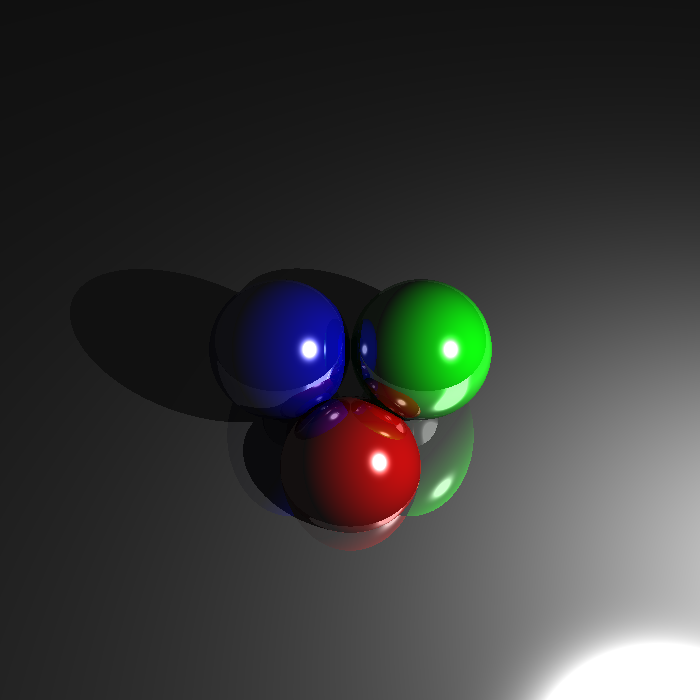
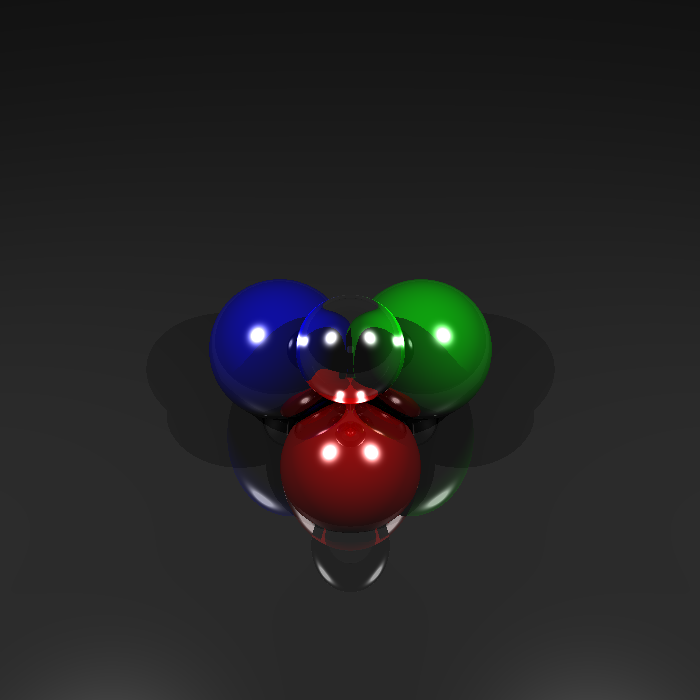
Refractions introduced! Yay!

diff --git a/src/Raytracer.cpp b/src/Raytracer.cpp
@@ -102,6 +102,8 @@ core::Color Raytracer::trace(core::Ray& ray, int reccursionStep)
     core::Point collision = ray.getOrgin() + ray.getDirection() * distance;
     core::Vector normal = closestObject->getNormalAt(collision);
 
+    core::Material closesObjectMaterial = closestObject->getMaterial();
+
     auto lights = scene_.getLights();
     for(auto& light : lights)
     {
@@ -152,14 +154,13 @@ core::Color Raytracer::trace(core::Ray& ray, int reccursionStep)
 
         if (isInShadow)
         {
-            local = local + clamp(closestObject->getMaterial().ambient * lightning_factor);
-            local = local * 255.0;
+            local = local + clamp(closesObjectMaterial.ambient * lightning_factor);
         }
         else
         {
-            core::Color ambient = closestObject->getMaterial().ambient * lightning_factor;
-            core::Color diffuse = closestObject->getMaterial().diffuse * light->getColor()  * dotNL * lightning_factor * 10.0;
-            core::Color specular = closestObject->getMaterial().specular * light->getColor() * pow(dotVR, 40) * 0.95;
+            core::Color ambient = closesObjectMaterial.ambient * lightning_factor;
+            core::Color diffuse = closesObjectMaterial.diffuse * light->getColor()  * dotNL * lightning_factor * 10.0;
+            core::Color specular = closesObjectMaterial.specular * light->getColor() * pow(dotVR, 40) * 0.95;
         
             local = local + clamp(ambient) + clamp(diffuse) + clamp(specular);
         }
@@ -167,7 +168,51 @@ core::Color Raytracer::trace(core::Ray& ray, int reccursionStep)
 
     core::Ray reflected(collision, ray.getDirection() - normal * (ray.getDirection().dotProduct(normal)) * 2.0);
     core::Color reflectedColor = trace(reflected, reccursionStep + 1);
-    local = local + clamp(reflectedColor * 0.5);
+    local = local + clamp(reflectedColor * 0.5);    // todo: reflection factor as paramter
+
+    if (closesObjectMaterial.opacity > 0.0)    //comparing doubles should use some kind of epsilon (std::numeric_limis<double> maybe?)
+    {
+        double n1;
+        double n2;
+        double cosI = ray.getDirection().dotProduct(normal);
+
+        if (cosI > 0)
+        {
+            n1 = closesObjectMaterial.refractionIndex;
+            n2 = 1.0f;
+        }
+        else
+        {
+            n1 = 1.0f;  
+            n2 = closesObjectMaterial.refractionIndex;
+            cosI = -cosI;
+        }
+
+        double cosT = 1.0f - pow(n1/n2, 2.0f) * (1.0f - pow(cosI, 2.0f));
+
+        if (cosT < 0.0f)
+        {
+            // This is total internal reflection (but i'm lazy so it still refracting)
+            // todo: fix me
+            core::Ray refraction(collision, 
+                ray.getDirection() * (n1/n2) + normal * ((n1/n2) * cosI - cosT));
+
+            core::Color refractionColor = trace(refraction, reccursionStep + 1);
+            local = local + clamp(refractionColor * closesObjectMaterial.opacity);
+
+        }
+        else
+        {
+            core::Ray refraction(collision, 
+                ray.getDirection() * (n1/n2) + normal * ((n1/n2) * cosI - cosT));
+
+            core::Color refractionColor = trace(refraction, reccursionStep + 1);
+            local = local + clamp(refractionColor * closesObjectMaterial.opacity);
+
+        }
+        
+    }
+
 
     return local;
 }

diff --git a/src/scene/Loader.cpp b/src/scene/Loader.cpp
@@ -75,9 +75,9 @@ Json::Value Loader::getOrDie(Json::Value node, std::string name)
 core::Point Loader::loadPosition(Json::Value& objectNode)
 {
     Json::Value position = getOrDie(objectNode, "position");
-    double x = position.get("x", "0.0").asDouble();
-    double y = position.get("y", "0.0").asDouble();
-    double z = position.get("z", "0.0").asDouble();
+    double x = position.get("x", 0.0).asDouble();
+    double y = position.get("y", 0.0).asDouble();
+    double z = position.get("z", 0.0).asDouble();
     return core::Point{x, y, z};    
 }
 
@@ -87,15 +87,17 @@ core::Material Loader::loadMaterial(Json::Value& objectNode)
     core::Color ambient = loadColor(material, "ambient");
     core::Color specular = loadColor(material, "specular");
     core::Color diffuse = loadColor(material, "diffuse");
-    return core::Material{ambient, specular, diffuse};
+    double refractionIndex = material.get("refractionIndex", 0.0).asDouble();
+    double opacity = material.get("opacity", 0.0).asDouble();
+    return core::Material{ambient, specular, diffuse, refractionIndex, opacity};
 }
 
 core::Color Loader::loadColor(Json::Value& objectNode, std::string colorName)
 {
     Json::Value color = getOrDie(objectNode, colorName);
-    double r = color.get("r", "0.0").asDouble();
-    double g = color.get("g", "0.0").asDouble();
-    double b = color.get("b", "0.0").asDouble(); 
+    double r = color.get("r", 0.0).asDouble();
+    double g = color.get("g", 0.0).asDouble();
+    double b = color.get("b", 0.0).asDouble(); 
     return core::Color{r, g, b};
 }
 

diff --git a/src/core/Material.hpp b/src/core/Material.hpp
@@ -14,6 +14,9 @@ public:
     Color ambient;
     Color specular;
     Color diffuse;
+
+    double refractionIndex;
+    double opacity;
 };
 
 }  // namesapce core

diff --git a/README.md b/README.md
@@ -10,8 +10,12 @@
 
 ### TODO:
 * [ ] Color clamping
-* [ ] Recursive tracing (~~reflections~~, refractions)
+* [ ] Recursive tracing (~~reflections~~, ~~refractions~~)
 * [ ] Antialiasing 
 * [ ] More shapes (triangle, ~~plane~~, torus, cone, etc...)
 * [ ] Obj files parsing
 * [ ] Texture materials (UV mapping)
+
+### Known issues:
+* Transparent objects still throws shadows
+* Light refraction is not implemented
